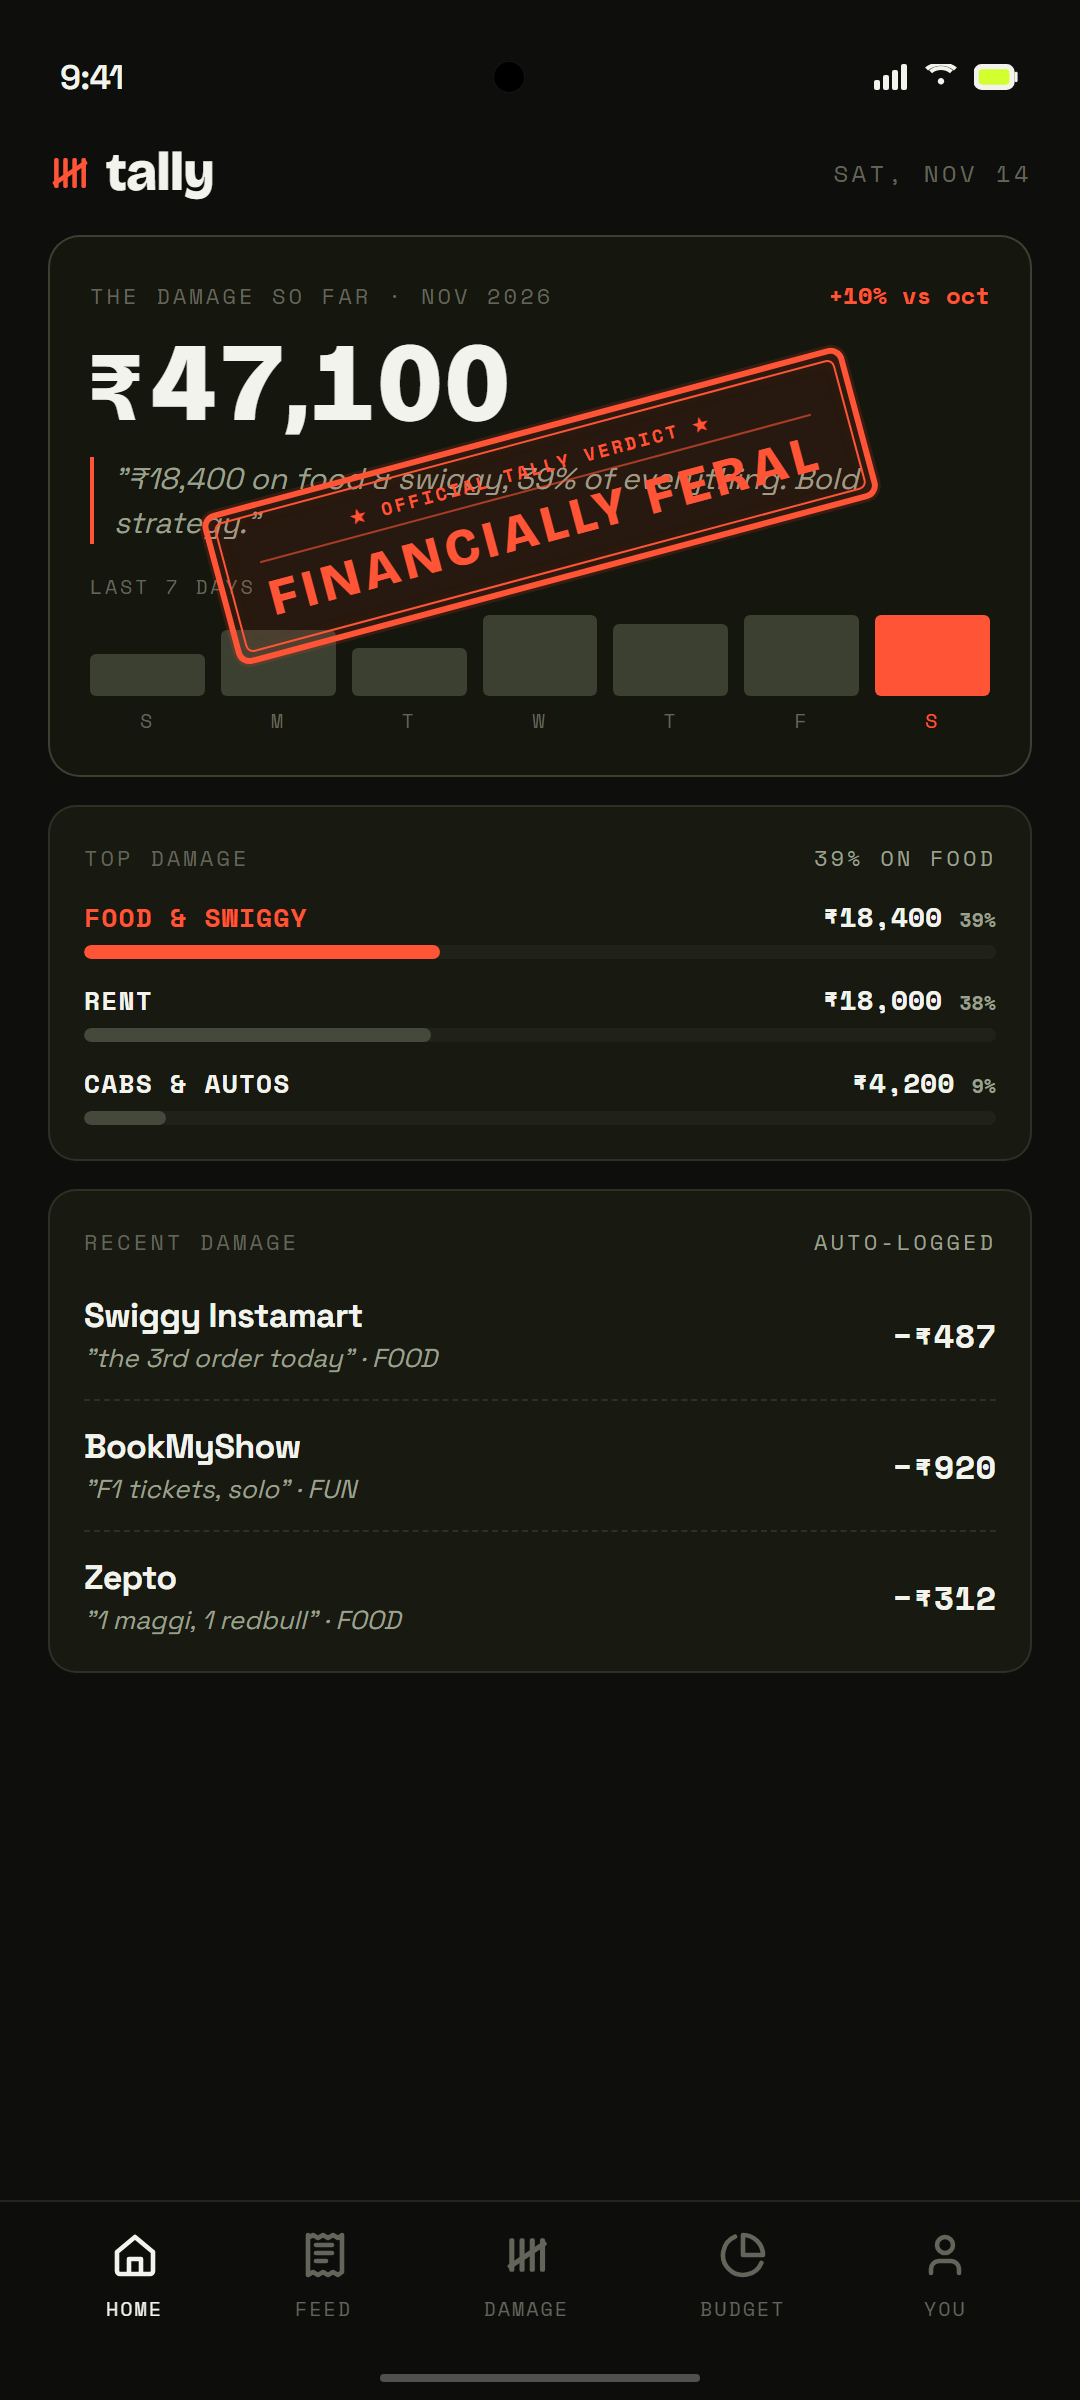
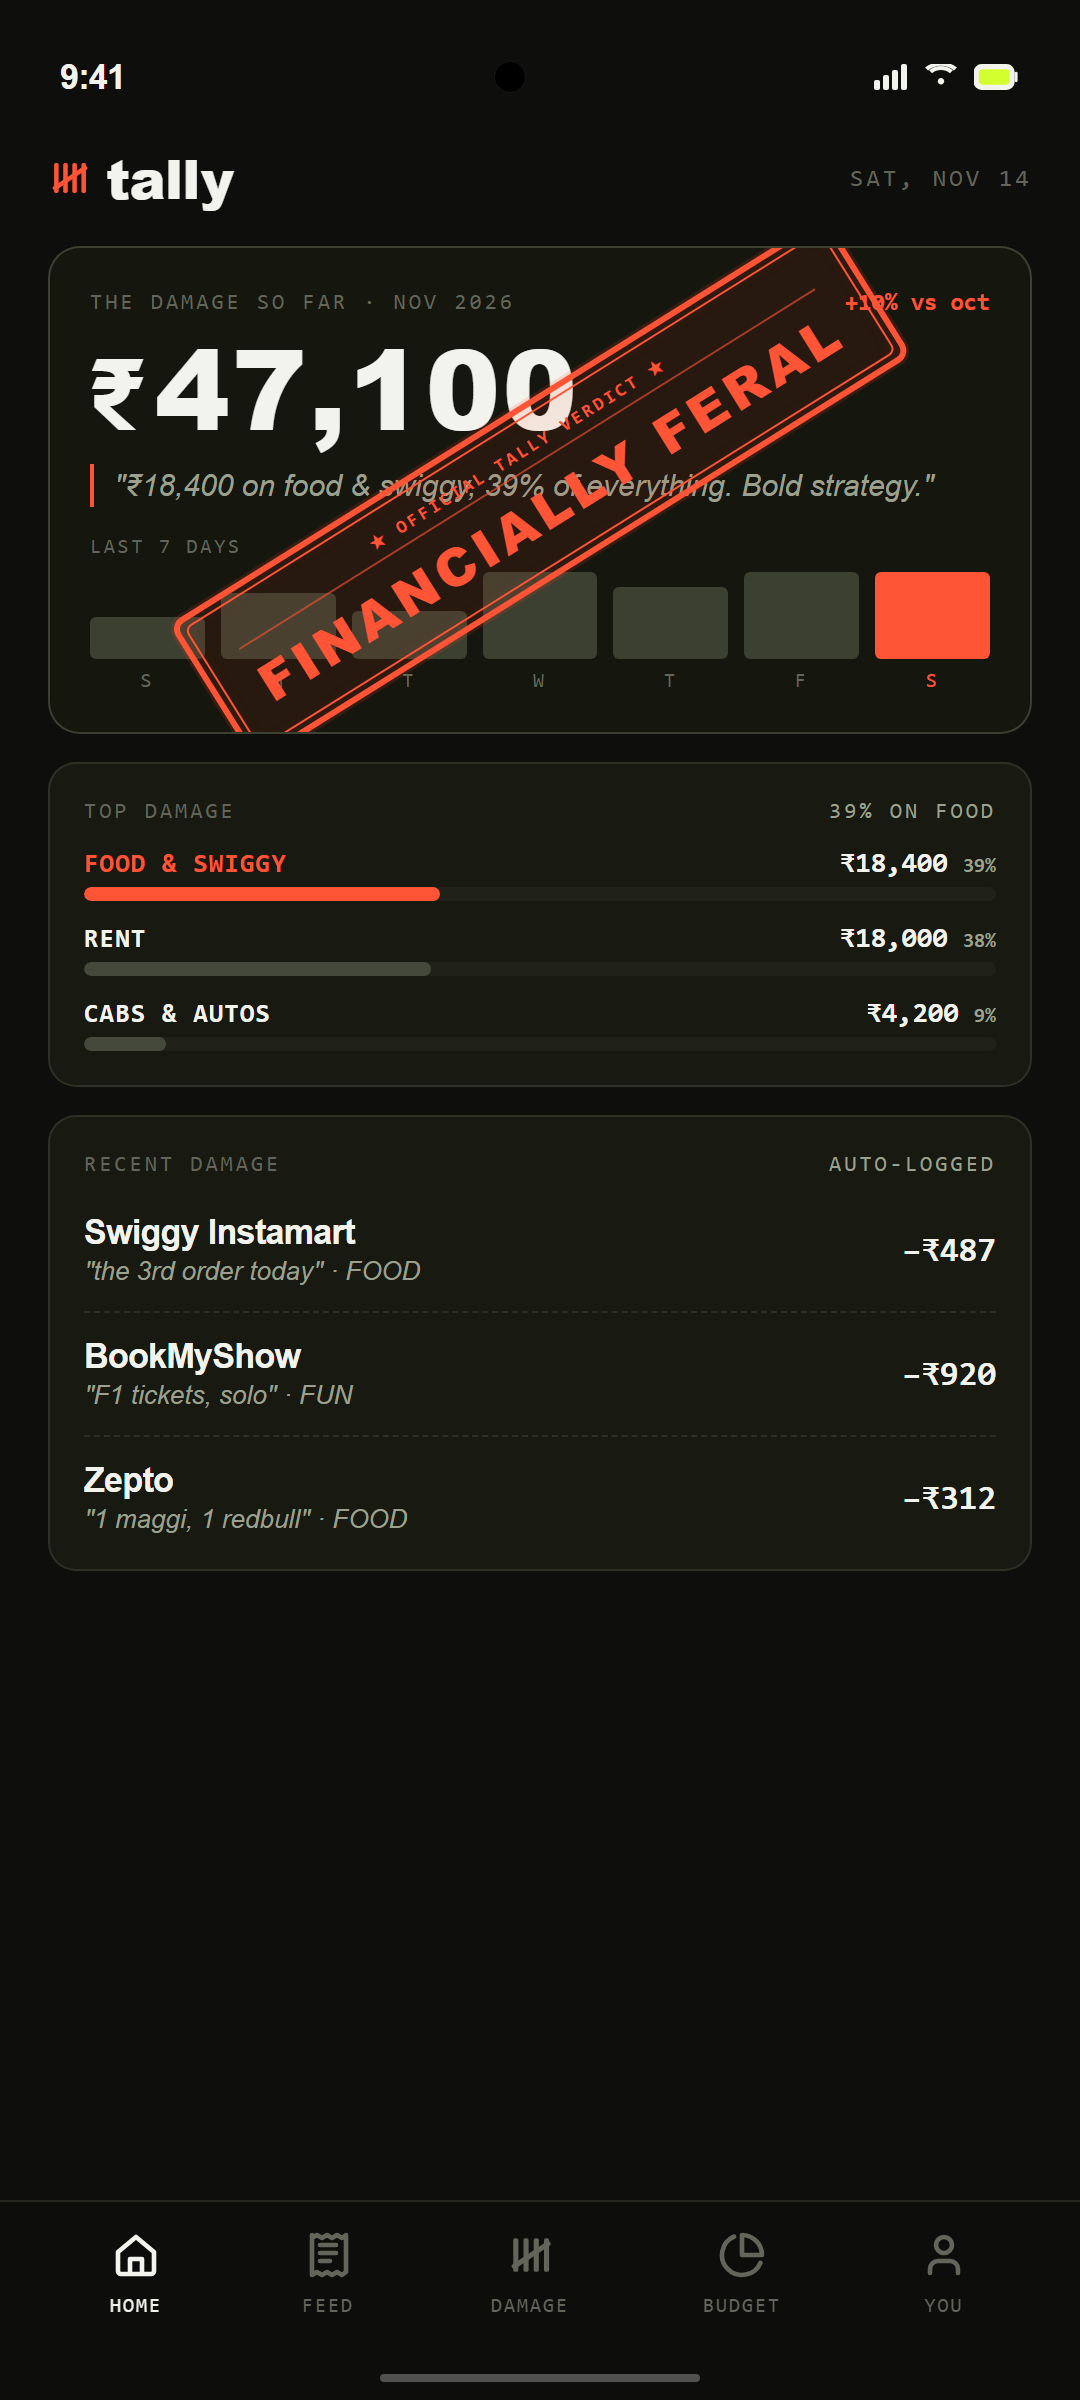
feat(stamp): rotate Version C stamp (-32deg) to touch top-right and bottom-left corners

diff --git a/src/tally/screens/HomeScreen.js b/src/tally/screens/HomeScreen.js
@@ -72,11 +72,11 @@ function FeralStampOverlay({ accent }) {
         transform: [
           { translateY: stampY },
           { scale: stampScale },
-          { rotate: '-15deg' },
+          { rotate: '-32deg' },
         ],
       }}
     >
-      {/* Authentic Rubber Stamp (Version C Proportions without bottom line) */}
+      {/* Authentic Rubber Stamp (Version C Proportions touching top-right & bottom-left corners) */}
       <View
         style={{
           borderWidth: 3.5,

diff --git a/scripts/generate_screenshots.py b/scripts/generate_screenshots.py
@@ -396,7 +396,7 @@ def build_screen_dashboard():
   position: absolute;
   top: 50%;
   left: 50%;
-  transform: translate(-50%, -50%) rotate(-15deg);
+  transform: translate(-50%, -50%) rotate(-32deg);
   border: 6px solid var(--red);
   border-radius: 14px;
   padding: 5px;
